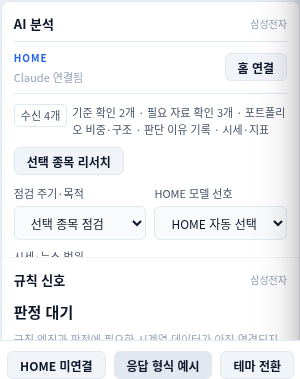
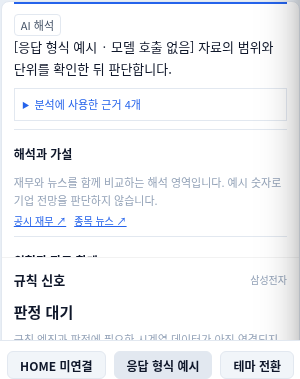
docs(ui): 미리보기에서 AI 응답 예시 위치로 이동

diff --git a/docs/design/data-research-ai/preview.html b/docs/design/data-research-ai/preview.html
@@ -16247,7 +16247,7 @@ root.StockBookChartRenderer=Object.freeze({mount});
  const add=(label,fn)=>{const b=document.createElement('button');b.className='sb-btn sb-btn--sm';b.textContent=label;b.onclick=fn;bar.append(b);};
  add('리서치 화면',()=>openStockDrawer('005930','삼성전자'));
  add('HOME 미연결',async()=>{exampleResponse=false;closeAnalysisDrawer();StockBookAI.select(null);StockBookAI.select({code:'005930',name:'삼성전자'});await StockBookAI.checkHome();document.getElementById('sbAnalysis').scrollIntoView({block:'nearest'});});
- add('응답 형식 예시',async()=>{exampleResponse=true;closeAnalysisDrawer();await StockBookAI.checkHome();document.getElementById('sbAIRun').click();document.getElementById('sbAnalysis').scrollIntoView({block:'nearest'});});
+ add('응답 형식 예시',async()=>{exampleResponse=true;closeAnalysisDrawer();await StockBookAI.checkHome();document.getElementById('sbAIRun').click();await new Promise(resolve=>setTimeout(resolve,80));document.getElementById('sbAIResult').scrollIntoView({block:'nearest'});});
  add('테마 전환',()=>setTheme(document.body.classList.contains('light-mode')?'dark':'light'));
  document.body.append(bar);await openStockDrawer('005930','삼성전자');await new Promise(resolve=>setTimeout(resolve,80));_allStockRaw.KOSPI=[{code:'005930',name:'삼성전자',price:snapshot.candles.at(-1).close,industry:'보존 자료 · 실시간 아님'}];filterAndRenderAll();document.getElementById('allStockStatus').textContent='디자인 예시 · 보존 자료 · 실시간 아님';window.designPreviewReady=true;
 });</script></body>
